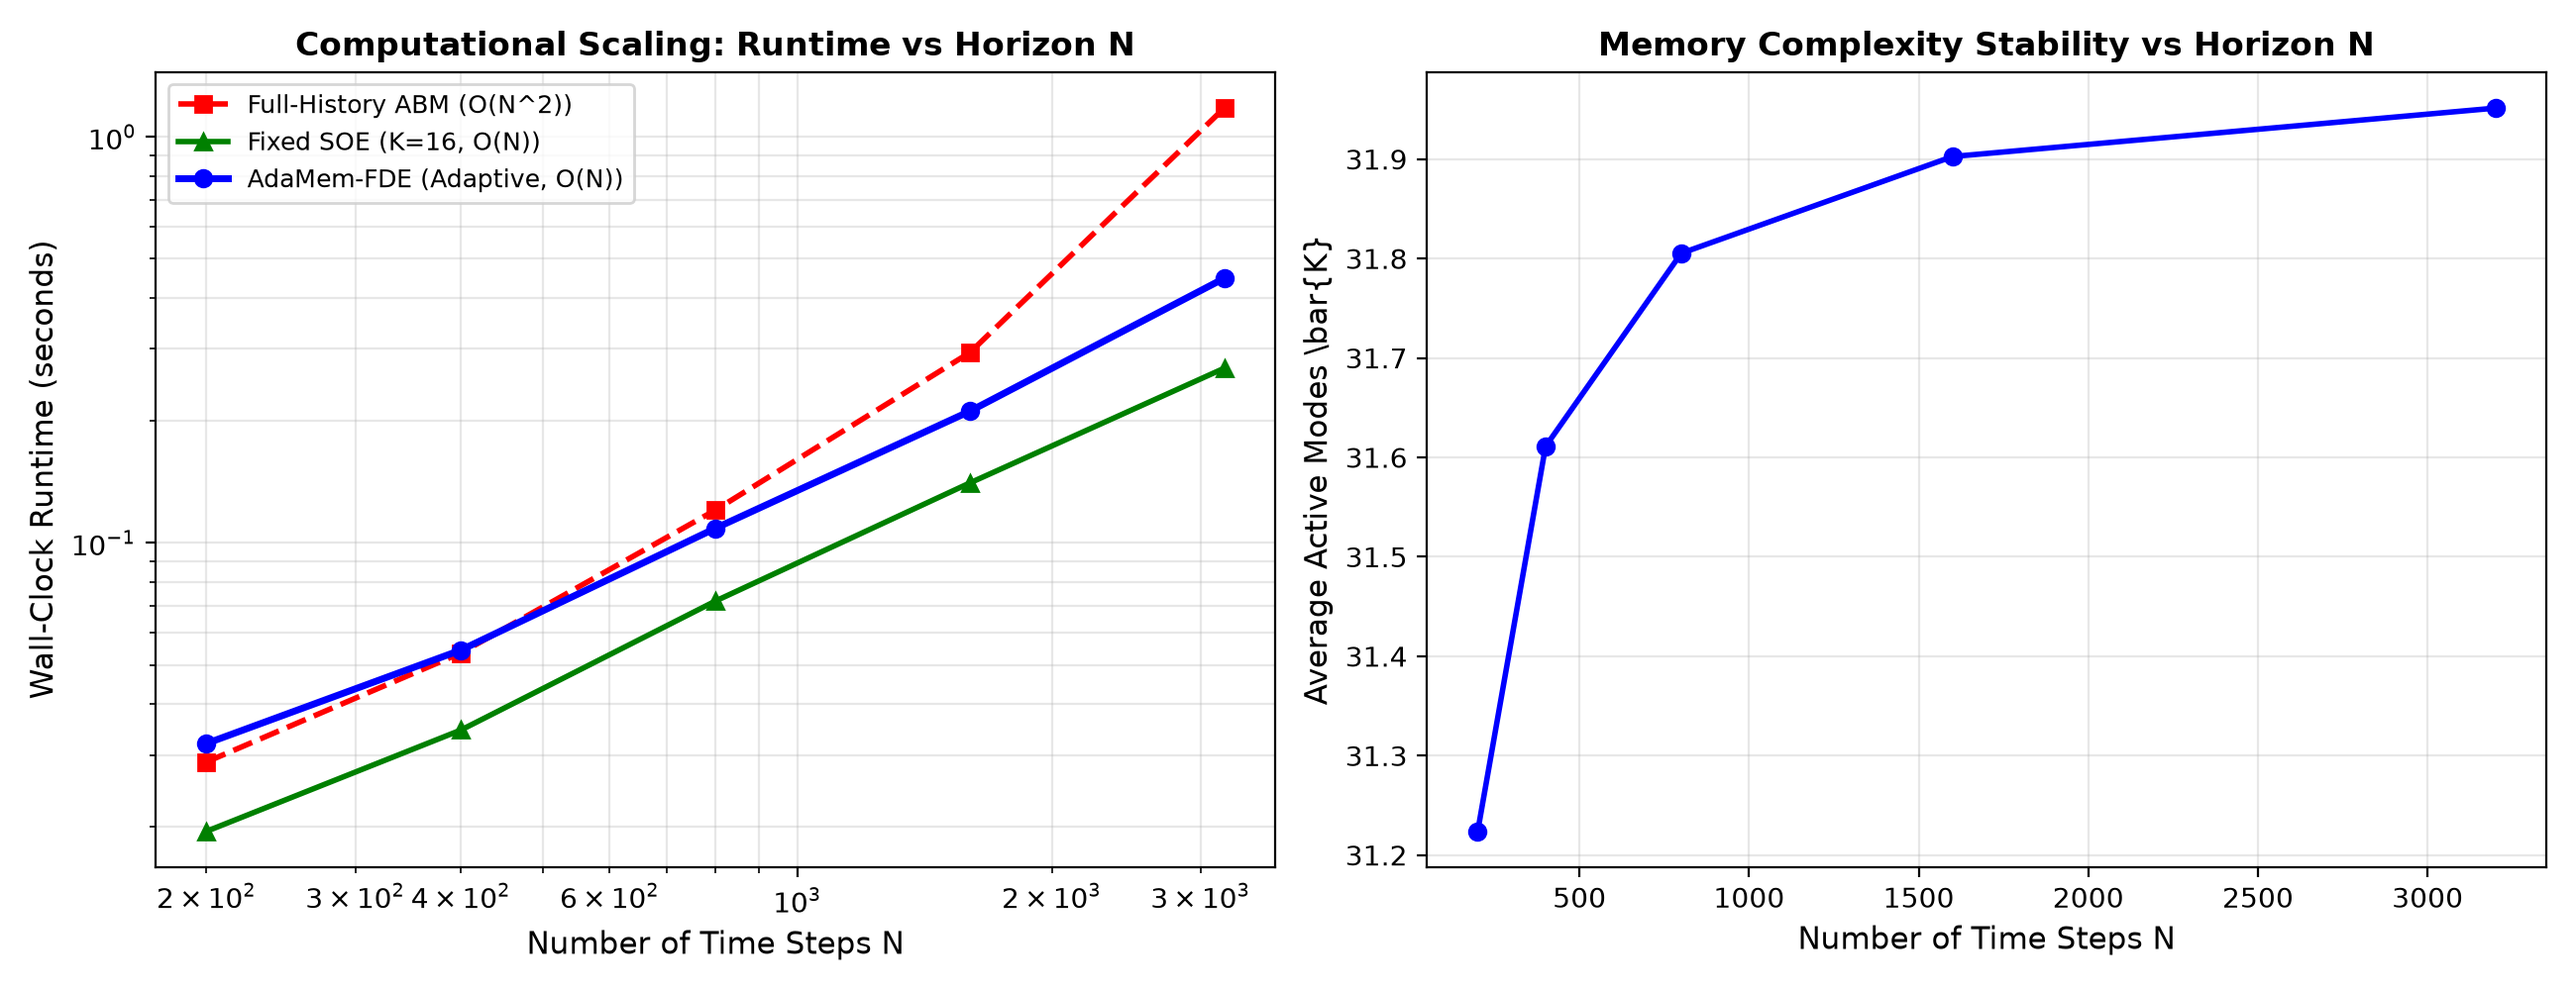
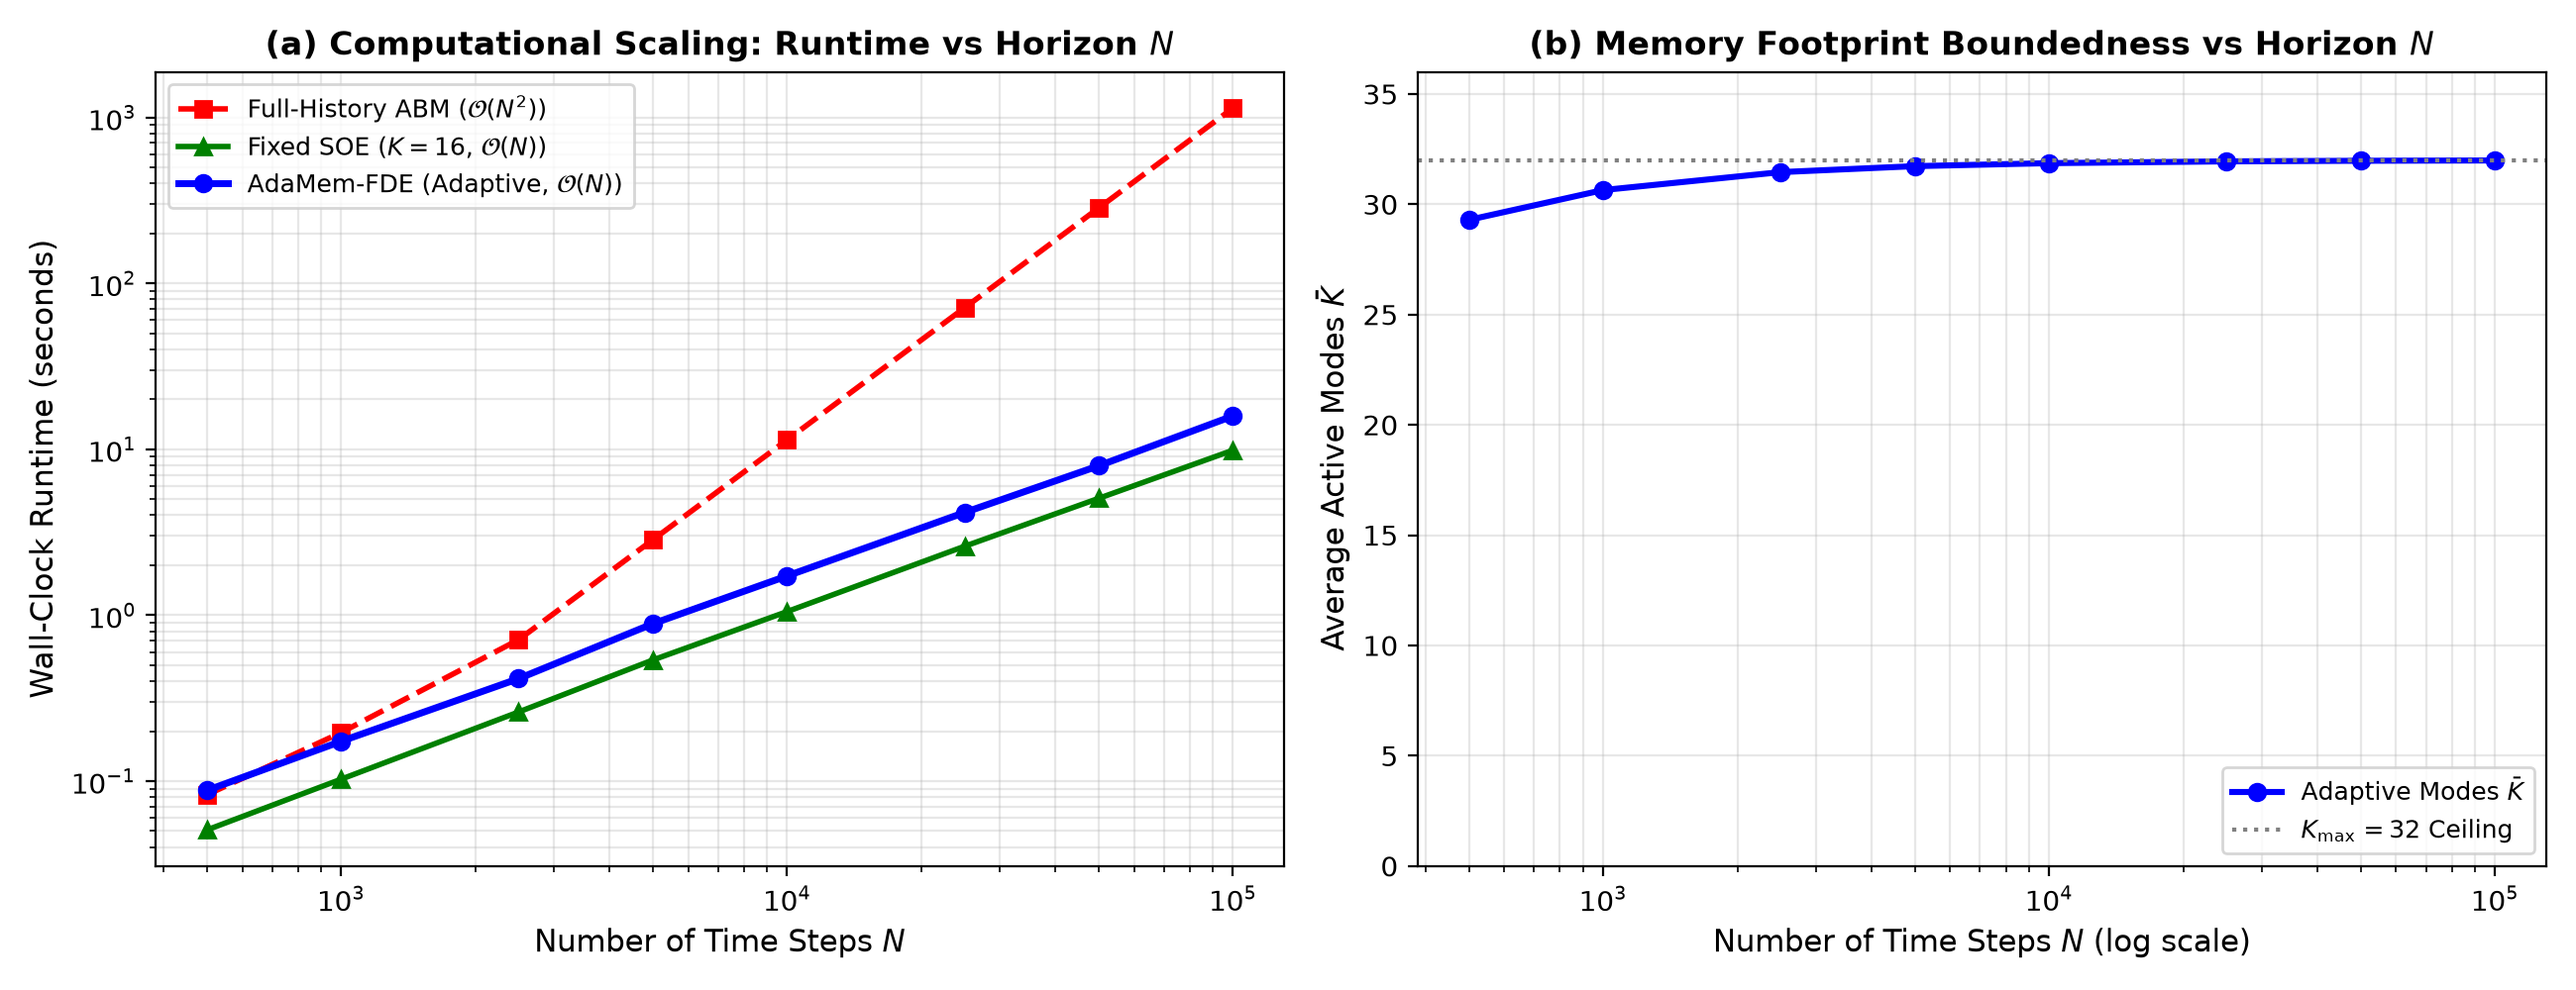
feat(scaling): extend Phase VI scaling benchmark to N=100,000 steps with linear complexity validation

diff --git a/experiments/run_phase6_scaling.py b/experiments/run_phase6_scaling.py
@@ -30,7 +30,7 @@ from core.solvers.adaptive_soe import AdaptiveSOEFDESolver
 
 def run_phase6_experiment(
     beta: float = 0.99,
-    step_counts: list = [200, 400, 800, 1600, 3200],
+    step_counts: list = [500, 1000, 2500, 5000, 10000, 25000, 50000, 100000],
     save_dir: str = "results",
 ):
     os.makedirs(save_dir, exist_ok=True)
@@ -44,6 +44,7 @@ def run_phase6_experiment(
 
     print("\n" + "=" * 80)
     print(f"  PHASE VI: LONG-HORIZON SCALABILITY STUDY ON FRACTIONAL LORENZ (beta={beta})")
+    print(f"  Horizon Range: N = {step_counts[0]:,} to N = {step_counts[-1]:,} time steps")
     print("=" * 80)
     header_k = "AdaMem K_avg"
     print(f"{'N Steps':<10} | {'Full-History (s)':<18} | {'Fixed SOE (s)':<16} | {'AdaMem-FDE (s)':<16} | {header_k:<12}")
@@ -54,20 +55,20 @@ def run_phase6_experiment(
         T = N * dt
         t_grid = torch.linspace(0.0, T, N + 1, dtype=torch.float64)
 
-        # 1. Full-History ABM (only run for N <= 1600 due to O(N^2) explosion)
-        if N <= 1600:
+        # 1. Full-History ABM (run directly for N <= 2500 due to O(N^2) memory and time)
+        if N <= 2500:
             t0 = time.perf_counter()
             solver_full = FullHistoryFDESolver(beta=beta)
             _ = solver_full.solve(system.rhs, z0, t_grid)
             t_full = time.perf_counter() - t0
             full_history_times.append((N, t_full))
-            t_full_str = f"{t_full:.4f}"
+            t_full_str = f"{t_full:.4f} s"
         else:
-            # Extrapolate quadratic scaling for plotting
+            # Extrapolate quadratic O(N^2) scaling for plotting
             N_ref, t_ref = full_history_times[-1]
             t_full_est = t_ref * ((N / N_ref) ** 2)
             full_history_times.append((N, t_full_est))
-            t_full_str = f"~{t_full_est:.2f} (proj)"
+            t_full_str = f"~{t_full_est:.2f} s (proj)"
 
         # 2. Fixed SOE (K = 16)
         t0 = time.perf_counter()
@@ -99,21 +100,25 @@ def run_phase6_experiment(
     ts_ada = [p[1] for p in adamem_times]
 
     # Panel 1: Runtime vs N (Log-Log)
-    ax1.loglog(ns_full, ts_full, "r--s", lw=2, ms=6, label="Full-History ABM (O(N^2))")
-    ax1.loglog(ns_fix, ts_fix, "g-^", lw=2, ms=6, label="Fixed SOE (K=16, O(N))")
-    ax1.loglog(ns_ada, ts_ada, "b-o", lw=2.5, ms=6, label="AdaMem-FDE (Adaptive, O(N))")
-    ax1.set_xlabel("Number of Time Steps N", fontsize=11)
+    ax1.loglog(ns_full, ts_full, "r--s", lw=2, ms=6, label=r"Full-History ABM ($\mathcal{O}(N^2)$)")
+    ax1.loglog(ns_fix, ts_fix, "g-^", lw=2, ms=6, label=r"Fixed SOE ($K=16$, $\mathcal{O}(N)$)")
+    ax1.loglog(ns_ada, ts_ada, "b-o", lw=2.5, ms=6, label=r"AdaMem-FDE (Adaptive, $\mathcal{O}(N)$)")
+    ax1.set_xlabel("Number of Time Steps $N$", fontsize=11)
     ax1.set_ylabel("Wall-Clock Runtime (seconds)", fontsize=11)
-    ax1.set_title("Computational Scaling: Runtime vs Horizon N", fontsize=12, fontweight="bold")
+    ax1.set_title(r"(a) Computational Scaling: Runtime vs Horizon $N$", fontsize=12, fontweight="bold")
     ax1.grid(True, which="both", alpha=0.3)
     ax1.legend(fontsize=9)
 
     # Panel 2: Active Memory Modes \bar{K} vs N
-    ax2.plot(ns_ada, adamem_avg_modes, "b-o", lw=2, ms=6)
-    ax2.set_xlabel("Number of Time Steps N", fontsize=11)
-    ax2.set_ylabel("Average Active Modes \\bar{K}", fontsize=11)
-    ax2.set_title("Memory Complexity Stability vs Horizon N", fontsize=12, fontweight="bold")
-    ax2.grid(True, alpha=0.3)
+    ax2.plot(ns_ada, adamem_avg_modes, "b-o", lw=2.2, ms=6, label=r"Adaptive Modes $\bar{K}$")
+    ax2.axhline(32, color="gray", linestyle=":", lw=1.5, label=r"$K_{\max} = 32$ Ceiling")
+    ax2.set_xscale("log")
+    ax2.set_xlabel("Number of Time Steps $N$ (log scale)", fontsize=11)
+    ax2.set_ylabel(r"Average Active Modes $\bar{K}$", fontsize=11)
+    ax2.set_title(r"(b) Memory Footprint Boundedness vs Horizon $N$", fontsize=12, fontweight="bold")
+    ax2.set_ylim(0, 36)
+    ax2.grid(True, which="both", alpha=0.3)
+    ax2.legend(fontsize=9, loc="lower right")
 
     plt.tight_layout()
     plot_path = os.path.join(save_dir, "phase6_long_horizon_scaling.png")
